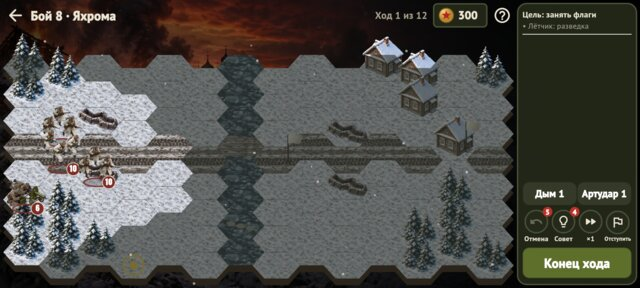
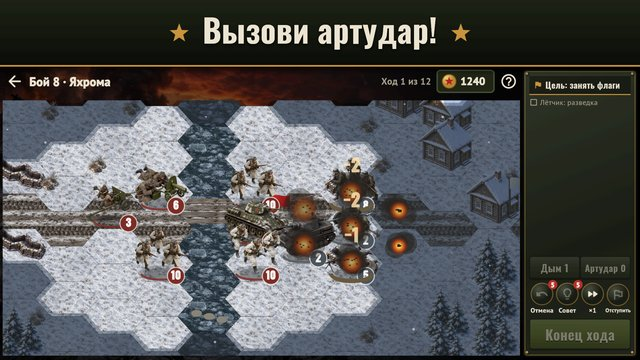
Steel Front: three armies, the first store screenshot

diff --git a/stalnoy-front/index.html b/stalnoy-front/index.html
@@ -10,9 +10,9 @@
 <link rel="manifest" href="site.webmanifest">
 <meta name="theme-color" content="#1e2312">
 <title>Стальной фронт — пошаговая стратегия Второй мировой</title>
-<meta name="description" content="Пошаговая стратегия Второй мировой: бои на гексах от Москвы до Сталинграда. Танки, артиллерия, окопы, туман войны, ветераны и командир. Без интернета, 12+.">
+<meta name="description" content="Пошаговая стратегия Второй мировой: веди СССР, США или Британию к победе. Танки, артиллерия, окопы, туман войны, ветераны и командир. Без интернета, 12+.">
 <meta property="og:title" content="Стальной фронт — пошаговая стратегия Второй мировой">
-<meta property="og:description" content="Пошаговая стратегия Второй мировой: бои на гексах от Москвы до Сталинграда.">
+<meta property="og:description" content="Пошаговая стратегия Второй мировой: веди СССР, США или Британию к победе.">
 <meta property="og:image" content="https://wobqqq.github.io/stalnoy-front/icon_512.png">
 <link rel="alternate" hreflang="en" href="en/">
 <script type="application/ld+json">
@@ -29,18 +29,18 @@
 <header><img src="icon_512.png" alt=""><h1>Стальной фронт</h1></header>
 <p class="lead">Октябрь 1941 года. Враг у стен Москвы, и только от твоих приказов зависит, устоит ли фронт.</p>
 <p>«Стальной фронт» — пошаговая стратегия о Второй мировой войне: танки, артиллерия, окопы и туман войны. На карте фронта выбирай, какой регион отбить следующим. В штабе собери отряды, а в бою веди их по гексам: окопай стрелков, прижми врага пулемётом, ударь танком в борт и вызови артудар. Солдаты переходят из боя в бой и становятся ветеранами.</p>
-<p class="shot"><img src="shot_ru.jpg" alt="Бой за Яхрому: отряды в окопах у реки, панель приказов справа" width="640" height="288"></p>
+<p class="shot"><img src="shot_ru.jpg" alt="Бой за Яхрому: артудар накрывает немецкие позиции за рекой, Т-34 и пехота идут в атаку" width="640" height="360"></p>
 <div class="card">
 <ul>
-<li><b>Кампания «Битва за Москву»:</b> 10 регионов от Крюково до Можайска, контратаки врага и бои за оборону, фронтовые сводки о реальных событиях.</li>
-<li><b>Глава «Сталинградская битва»:</b> 10 регионов — завод «Баррикады», Калач, Дом Павлова, Мамаев курган и Тракторный завод.</li>
+<li><b>Кампания за СССР:</b> пять глав от битвы за Москву через Сталинград, Курскую дугу и «Багратион» до штурма Рейхстага, фронтовые сводки о реальных событиях.</li>
+<li><b>Кампании за США и Британию:</b> от Северной Африки, Сицилии, Нормандии и Арденн до Рейна; от Дюнкерка и Эль-Аламейна до Нормандии и Голландии. У каждой армии своя техника и свои сильные стороны.</li>
+<li><b>Особые исторические бои:</b> Дом Павлова, Прохоровка, Рейхстаг, пляж «Омаха», Бастонь, мост Пегас, мост в Арнеме и другие.</li>
 <li><b>Тактика на гексах:</b> местность и окопы, ответный огонь, «Оборона», мораль, прогноз потерь перед каждой атакой.</li>
-<li><b>Честный туман войны:</b> ИИ видит только то, что видят его солдаты; снег, туман и ночные бои; три уровня сложности.</li>
+<li><b>Честный туман войны:</b> ИИ видит только то, что видят его солдаты; бои зимой и летом, весной и осенью, в снег, дождь, туман и ночью; три уровня сложности.</li>
 <li><b>Штаб между боями:</b> отряды с потерями и наградами, ветераны со званиями, командиров ты знаешь по фамилиям.</li>
 <li><b>Командир</b> с деревом навыков, медали и справочник вооружения с историей каждой машины и орудия.</li>
 <li><b>Реалистичная картинка</b> под углом 45 градусов, записанные звуки выстрелов и взрывов, оркестровая музыка.</li>
 <li><b>Автосохранение посреди боя</b>, операция дня и ежедневные задания; игра без интернета, на русском и английском.</li>
-<li><b>Скоро:</b> кампании за США и Британию.</li>
 </ul>
 </div>
 <p>Без крови и без нацистской символики: только история фронта. По желанию — одно напоминание, если не заходил неделю; выключается в настройках. Фронт ждёт, командир!</p>

diff --git a/stalnoy-front/en/index.html b/stalnoy-front/en/index.html
@@ -10,9 +10,9 @@
 <link rel="manifest" href="../site.webmanifest">
 <meta name="theme-color" content="#1e2312">
 <title>Steel Front — a turn-based WWII strategy game</title>
-<meta name="description" content="A turn-based Second World War strategy game: hex battles from Moscow to Stalingrad. Tanks, artillery, trenches, fog of war, veterans and a commander. Offline, 12+.">
+<meta name="description" content="A turn-based Second World War strategy game: lead the USSR, the USA or Britain to victory. Tanks, artillery, trenches, fog of war, veterans and a commander. Offline, 12+.">
 <meta property="og:title" content="Steel Front — a turn-based WWII strategy game">
-<meta property="og:description" content="A turn-based WW2 strategy game: hex battles from Moscow to Stalingrad.">
+<meta property="og:description" content="A turn-based WW2 strategy game: lead the USSR, the USA or Britain to victory.">
 <meta property="og:image" content="https://wobqqq.github.io/stalnoy-front/icon_512.png">
 <link rel="alternate" hreflang="ru" href="../">
 <script type="application/ld+json">
@@ -29,18 +29,18 @@
 <header><img src="../icon_512.png" alt=""><h1>Steel Front</h1></header>
 <p class="lead">October 1941. The enemy is at the gates of Moscow, and whether the front holds depends on your orders.</p>
 <p>Steel Front is a turn-based Second World War strategy game: tanks, artillery, trenches and the fog of war. Choose on the front map which region to win back next. Gather your units at HQ, then lead them across the hexes: dig your riflemen in, pin the enemy down with a machine gun, hit a tank in the flank and call in an artillery strike. Your soldiers go from battle to battle and become veterans.</p>
-<p class="shot"><img src="../shot_en.jpg" alt="The battle for Yakhroma: units in trenches by the river, the command panel on the right" width="640" height="288"></p>
+<p class="shot"><img src="../shot_en.jpg" alt="The battle for Yakhroma: an artillery strike hits the German positions across the river as a T-34 and infantry attack" width="640" height="360"></p>
 <div class="card">
 <ul>
-<li><b>The Battle of Moscow campaign:</b> 10 regions from Kryukovo to Mozhaisk, enemy counter-attacks and defence battles, front-line briefings about real events.</li>
-<li><b>The Battle of Stalingrad chapter:</b> 10 regions, from the Barrikady factory and Kalach to Pavlov's House, Mamayev Kurgan and the Tractor Factory.</li>
+<li><b>The Soviet campaign:</b> five chapters from the Battle of Moscow through Stalingrad, Kursk and Bagration to the storming of the Reichstag, with front-line briefings about real events.</li>
+<li><b>The American and British campaigns:</b> from North Africa, Sicily, Normandy and the Ardennes to the Rhine; from Dunkirk and El Alamein to Normandy and Holland. Every army has its own equipment and strengths.</li>
+<li><b>Special historic battles:</b> Pavlov's House, Prokhorovka, the Reichstag, Omaha Beach, Bastogne, Pegasus Bridge, Arnhem Bridge and more.</li>
 <li><b>Hex tactics:</b> terrain and trenches, return fire, Overwatch, morale, a loss forecast before every attack.</li>
-<li><b>A fair fog of war:</b> the AI sees only what its soldiers see; snow, fog and night battles; three difficulty levels.</li>
+<li><b>A fair fog of war:</b> the AI sees only what its soldiers see; battles in winter and summer, spring and autumn, in snow, rain, fog and at night; three difficulty levels.</li>
 <li><b>HQ between battles:</b> units keep their losses and honours, veterans earn ranks, and you know their leaders by name.</li>
 <li><b>A commander</b> with a skill tree, medals and a weapons handbook with the story of every vehicle and gun.</li>
 <li><b>Realistic art</b> seen from 45 degrees, recorded gunfire and explosions, orchestral music.</li>
 <li><b>Autosave mid-battle</b>, a daily operation and daily tasks; plays offline, in English and Russian.</li>
-<li><b>Coming soon:</b> the USA and Britain campaigns.</li>
 </ul>
 </div>
 <p>No blood and no Nazi symbols: just the history of the front. An optional reminder after a week away, off at any time in the settings. The front is waiting, commander!</p>
